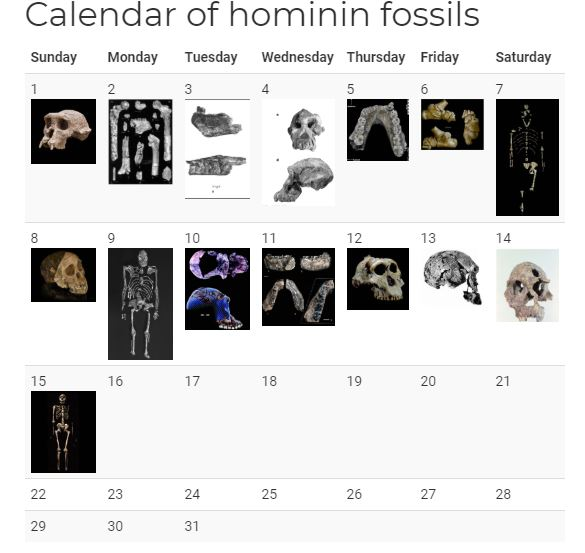
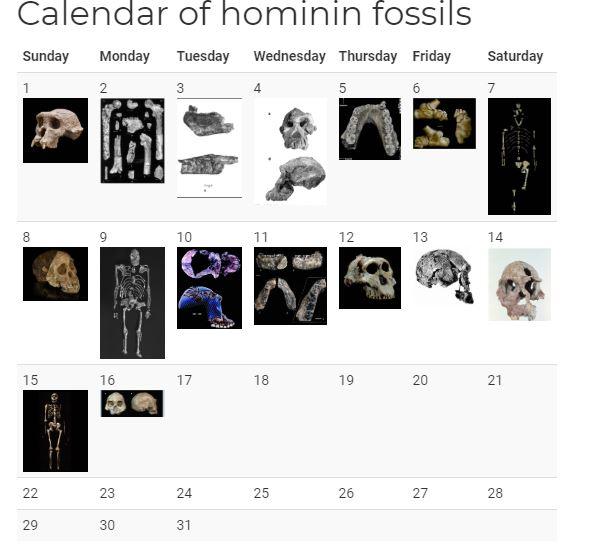
day 17

diff --git a/content/post/2019-12-16-advent-of-hominins-day-seventeen-mojokerto-1.html b/content/post/2019-12-16-advent-of-hominins-day-seventeen-mojokerto-1.html
@@ -1,0 +1,43 @@
+---
+title: 'advent-of-hominins-day-seventeen-Mojokerto-1 '
+author: Marc Kissel
+date: '2019-12-17'
+slug: advent-of-hominins-day-seventeen-mojokerto-1
+categories:
+  - Advent_of_hominins
+  - Teaching
+tags: []
+header:
+  caption: ''
+  image: ''
+---
+
+<script src="/rmarkdown-libs/htmlwidgets/htmlwidgets.js"></script>
+<script src="/rmarkdown-libs/jquery/jquery.min.js"></script>
+<link href="/rmarkdown-libs/leaflet/leaflet.css" rel="stylesheet" />
+<script src="/rmarkdown-libs/leaflet/leaflet.js"></script>
+<link href="/rmarkdown-libs/leafletfix/leafletfix.css" rel="stylesheet" />
+<script src="/rmarkdown-libs/Proj4Leaflet/proj4-compressed.js"></script>
+<script src="/rmarkdown-libs/Proj4Leaflet/proj4leaflet.js"></script>
+<link href="/rmarkdown-libs/rstudio_leaflet/rstudio_leaflet.css" rel="stylesheet" />
+<script src="/rmarkdown-libs/leaflet-binding/leaflet.js"></script>
+
+
+<div id="mojokerto" class="section level1">
+<h1>Mojokerto</h1>
+<p><img src="/img/Huffman_mojokerto.jpg" title = "Mojokerto skull. Image from Huffman et al. 2005" width = "400" height = "400" ></p>
+<p>This fossil of a juvenile <em>Homo erectus</em> comes from near Perning in East Java, Indonesia. The calvaria is almost complete. It is known “Mojokerto” or “Perning 1” and is ~ 630 cm<sup>3</sup>. The age at death of the individual is unknown. Some suggest it might be ~8 years old but others put it around 6-18 months. Its species status is also debated and has been placed in <em>Homo soloensis</em>, <em>Pithecanthropus modjokertensis</em>, <em>Homo erectus</em>, &amp; <em>Australopithecus</em>. I think most scholars suggest it is a variant of <em>Homo erectus</em>.</p>
+<div id="htmlwidget-1" style="width:672px;height:480px;" class="leaflet html-widget"></div>
+<script type="application/json" data-for="htmlwidget-1">{"x":{"options":{"crs":{"crsClass":"L.CRS.EPSG3857","code":null,"proj4def":null,"projectedBounds":null,"options":{}}},"calls":[{"method":"addTiles","args":["//{s}.tile.openstreetmap.org/{z}/{x}/{y}.png",null,null,{"minZoom":0,"maxZoom":18,"tileSize":256,"subdomains":"abc","errorTileUrl":"","tms":false,"noWrap":false,"zoomOffset":0,"zoomReverse":false,"opacity":1,"zIndex":1,"detectRetina":false,"attribution":"&copy; <a href=\"http://openstreetmap.org\">OpenStreetMap<\/a> contributors, <a href=\"http://creativecommons.org/licenses/by-sa/2.0/\">CC-BY-SA<\/a>"}]},{"method":"addMarkers","args":[-7.472222,112.433611,null,null,null,{"interactive":true,"draggable":false,"keyboard":true,"title":"","alt":"","zIndexOffset":0,"opacity":1,"riseOnHover":false,"riseOffset":250},"aprox location of Mojokerto skull",null,null,null,null,{"interactive":false,"permanent":false,"direction":"auto","opacity":1,"offset":[0,0],"textsize":"10px","textOnly":false,"className":"","sticky":true},null]}],"limits":{"lat":[-7.472222,-7.472222],"lng":[112.433611,112.433611]},"setView":[[-7.472222,112.433611],2,[]]},"evals":[],"jsHooks":[]}</script>
+<p>One of the most pressing issues is the geological age of the skull. It was <a href="https://www.ncbi.nlm.nih.gov/pubmed/15788182">first found by Andoyo</a>, a fossil collector, on February 13, 1936.
+Much work has gone into discerning if the skull was collected from the surface or unearthed from the bedrock. Swisher and colleagues (1994) proposed an age of the skull ~1.81 Ma. They did this by matching sediments found in the skull to similar materials at the site where it may have been found. Not everyone accepts this old date, however. Others put it closer to 780,000 years ago and <a href="https://www.ncbi.nlm.nih.gov/pubmed/23815827">A recent analysis</a> suggests an age between 1.2-1.8 ma.</p>
+<p>A really <a href="https://www.ncbi.nlm.nih.gov/pubmed/15788182">fascinating investigation</a> into this question in 2005 concluded “it very likely that the Mojokerto skull was found in situ in Pucangan sandstone. We hope that this exposition on the discovery of the skull will restore the usefulness of the specimen to broader considerations of the evolution of the genus Homo.” Based on this research they conclude that the skull was ~1.43 ma.</p>
+<p>Why does the date matter? Well, if it really is 1.81 mya than it is older than most of the <em>Homo erectus</em> fossils from Africa and would be one of the oldest, if not the oldest, fossil hominin in Asia. Paleoanthropologists often speak of the <em>Out Of Arica 1</em> event, when hominins began to move to regions outside of Africa. Knowing when this first happened can allow us to better understand why it happened.</p>
+<p>As with <a href="https://marckissel.netlify.com/post/advent-of-hominins-day-fifteen-wt-15000/">WT 15000</a>, data from pre-adults can inform on the development trajectory of pre-human hominins. In this case, we can look at the rate of brain growth. In modern humans the brain grows very fast during the first year or so of life. While humans have relatively small brains at birth, we experience high rates of prenatal brain growth.</p>
+<p><a href="https://www.ncbi.nlm.nih.gov/pubmed/15927659">One study</a> of the endocranium suggests the growth and development of the <em>Homo erectus</em> brain was different from that of modern humans. A <a href="https://www.ncbi.nlm.nih.gov/pubmed/23815827">study by O’Connell &amp; DeSilva</a> examined brain ontogeny in humans and chimps. They suggest that Mojokerto had reached 70% of its adult cranial capacity, between the average growth in humans and chimpanzees. They argue that <em>H. erectus</em> was developing along the continuum of variation between the human and chimps.</p>
+<p>O’Connell &amp; DeSilva suggest that these data may mean that <em>H. erectus</em>’s brain development emphasized learning. Perhaps the foundations of language were present in <em>H. erectus</em>!</p>
+<div id="further-reading" class="section level3">
+<h3>Further reading</h3>
+<p><a href="https://www.researchgate.net/publication/7948010_Historical_Evidence_of_the_1936_Mojokerto_Skull_Discovery_East_Java">Historical Evidence of the 1936 MojokertoSkull Discovery, East Java by Huffman et al. (2005)</a></p>
+</div>
+</div>

diff --git a/content/project/Advent.md b/content/project/Advent.md
@@ -44,6 +44,6 @@ Below is a *semi*-interactive version of the calendar:
 |------------------------------------------------------------------------------------------------------------------------------------------------------------------------------------|------------------------------------------------------------------------------------------------------------------------------|--------------------------------------------------------------------------------------------------------------------------------------------|------------------------------------------------------------------------------------------------------------------------------------------------------|-------------------------------------------------------------------------------------------------------------------------------------------------|--------|----------|
 | 1    [<img src="/img/NHB2014-02878_Sahelanthropus tchadensis_sq_Smithsonian.jpg" width="100" height="100" />](https://marckissel.netlify.com/post/day1-sahelanthropus-tchadensis/) | 2   [<img src="/img/orrorin.PNG" width="100" height="100" />](https://marckissel.netlify.com/post/day2-orrorin-tugenensis/)  |  3  [<img src="/img/lothagam.PNG" width="100" height="100" />](https://marckissel.netlify.com/post/advent-of-hominins-day-three-lothagam)  |  4  [<img src="/img/MRD-Halie-Selassie_2019.PNG" width="100" height="100" />](https://marckissel.netlify.com/post/advent-of-hominins-day-four-mrd/)  |  5  [<img src="/img/lh_4_efossils.jpg" width="100" height="100" />](https://marckissel.netlify.com/post/advent-of-hominins-day-five-lh-four/)   | 6 [<img src="/img/Dikfoot.png" width="100" height="100" />](https://marckissel.netlify.com/post/advent-of-hominins-day-six-dik-1-1f/)     | 7  [<img src="/img/01TB-LUCY1-NYTIMES.jpg" width="100" height="100" />](https://marckissel.netlify.com/post/advent-of-hominins-day-seven-al-288/)      |
 | 8 [<img src="/img/Cast_of_taung_child.jpg" width="100" height="100" />](https://marckissel.netlify.com/post/advent-of-hominins-day-eight-taung-child)                                                                                                                                                                                  | 9 [<img src="/img/Clarke_2019_fig_19.jpg" width="100" height="100" />](https://marckissel.netlify.com/post/advent-of-hominins-day-nine-stw-573)                                                                                                                            | 10  [<img src="/img/Asfaw_et_al.jpg" width="100" height="100" />](https://marckissel.netlify.com/post/advent-of-hominins-day-ten-ara-vp-12-130)                                                                                                                                       | 11  [<img src="/img/Villmoare_et_al_2015.jpg" width="100" height="100" />](https://marckissel.netlify.com/post/advent-of-hominins-day-eleven-ld-350-1)                                                                                                                                                 | 12 [<img src="/img/boisei_OH5_skull_CC_rt_3qtr_sq.jpg" width="100" height="100" />](https://marckissel.netlify.com/post/advent-of-hominins-day-twelve-oh-5)                                                                                                                                              | 13  [<img src="/img/1470_talkorigins.jpg" width="100" height="100" />](https://marckissel.netlify.com/post/advent-of-hominins-day-thirteen-knm-er-1470)      | 14 [<img src="/img/Knm_er_1813_fineartamerica.JPG" width="100" height="100" />](https://marckissel.netlify.com/post/advent-of-hominins-day-advent-of-hominins-day-fourteen-knm-er-1813/)       |
-| 15   [<img src="/img/15k.jpg" width="100" height="100" />](https://marckissel.netlify.com/post/advent-of-hominins-day-fifteen-wt-15000//)                                                                                                                                                                               | 16  [<img src="/img/Picture1.jpg" width="100" height="100" />](https://marckissel.netlify.com/post/advent-of-hominins-day-sixteen-d3444/)                                                                                                                           | 17                                                                                                                                         | 18                                                                                                                                                   | 19                                                                                                                                              | 20     | 21       |
+| 15   [<img src="/img/15k.jpg" width="100" height="100" />](https://marckissel.netlify.com/post/advent-of-hominins-day-fifteen-wt-15000//)                                                                                                                                                                               | 16  [<img src="/img/Picture1.jpg" width="100" height="100" />](https://marckissel.netlify.com/post/advent-of-hominins-day-sixteen-d3444/)                                                                                                                           | 17 [<img src="/img/Huffman_mojokerto.jpg" width="100" height="100" />](https://marckissel.netlify.com/post/advent-of-hominins-day-seventeen-mojokerto-1/)                                                                                                                                          | 18                                                                                                                                                   | 19                                                                                                                                              | 20     | 21       |
 | 22                                                                                                                                                                                 | 23                                                                                                                           | 24                                                                                                                                         | 25                                                                                                                                                   | 26                                                                                                                                              | 27     | 28       |
 | 29                                                                                                                                                                                 | 30                                                                                                                           | 31                                                                                                                                         |                                                                                                                                                      |                                                                                                                                                 |        |          |
